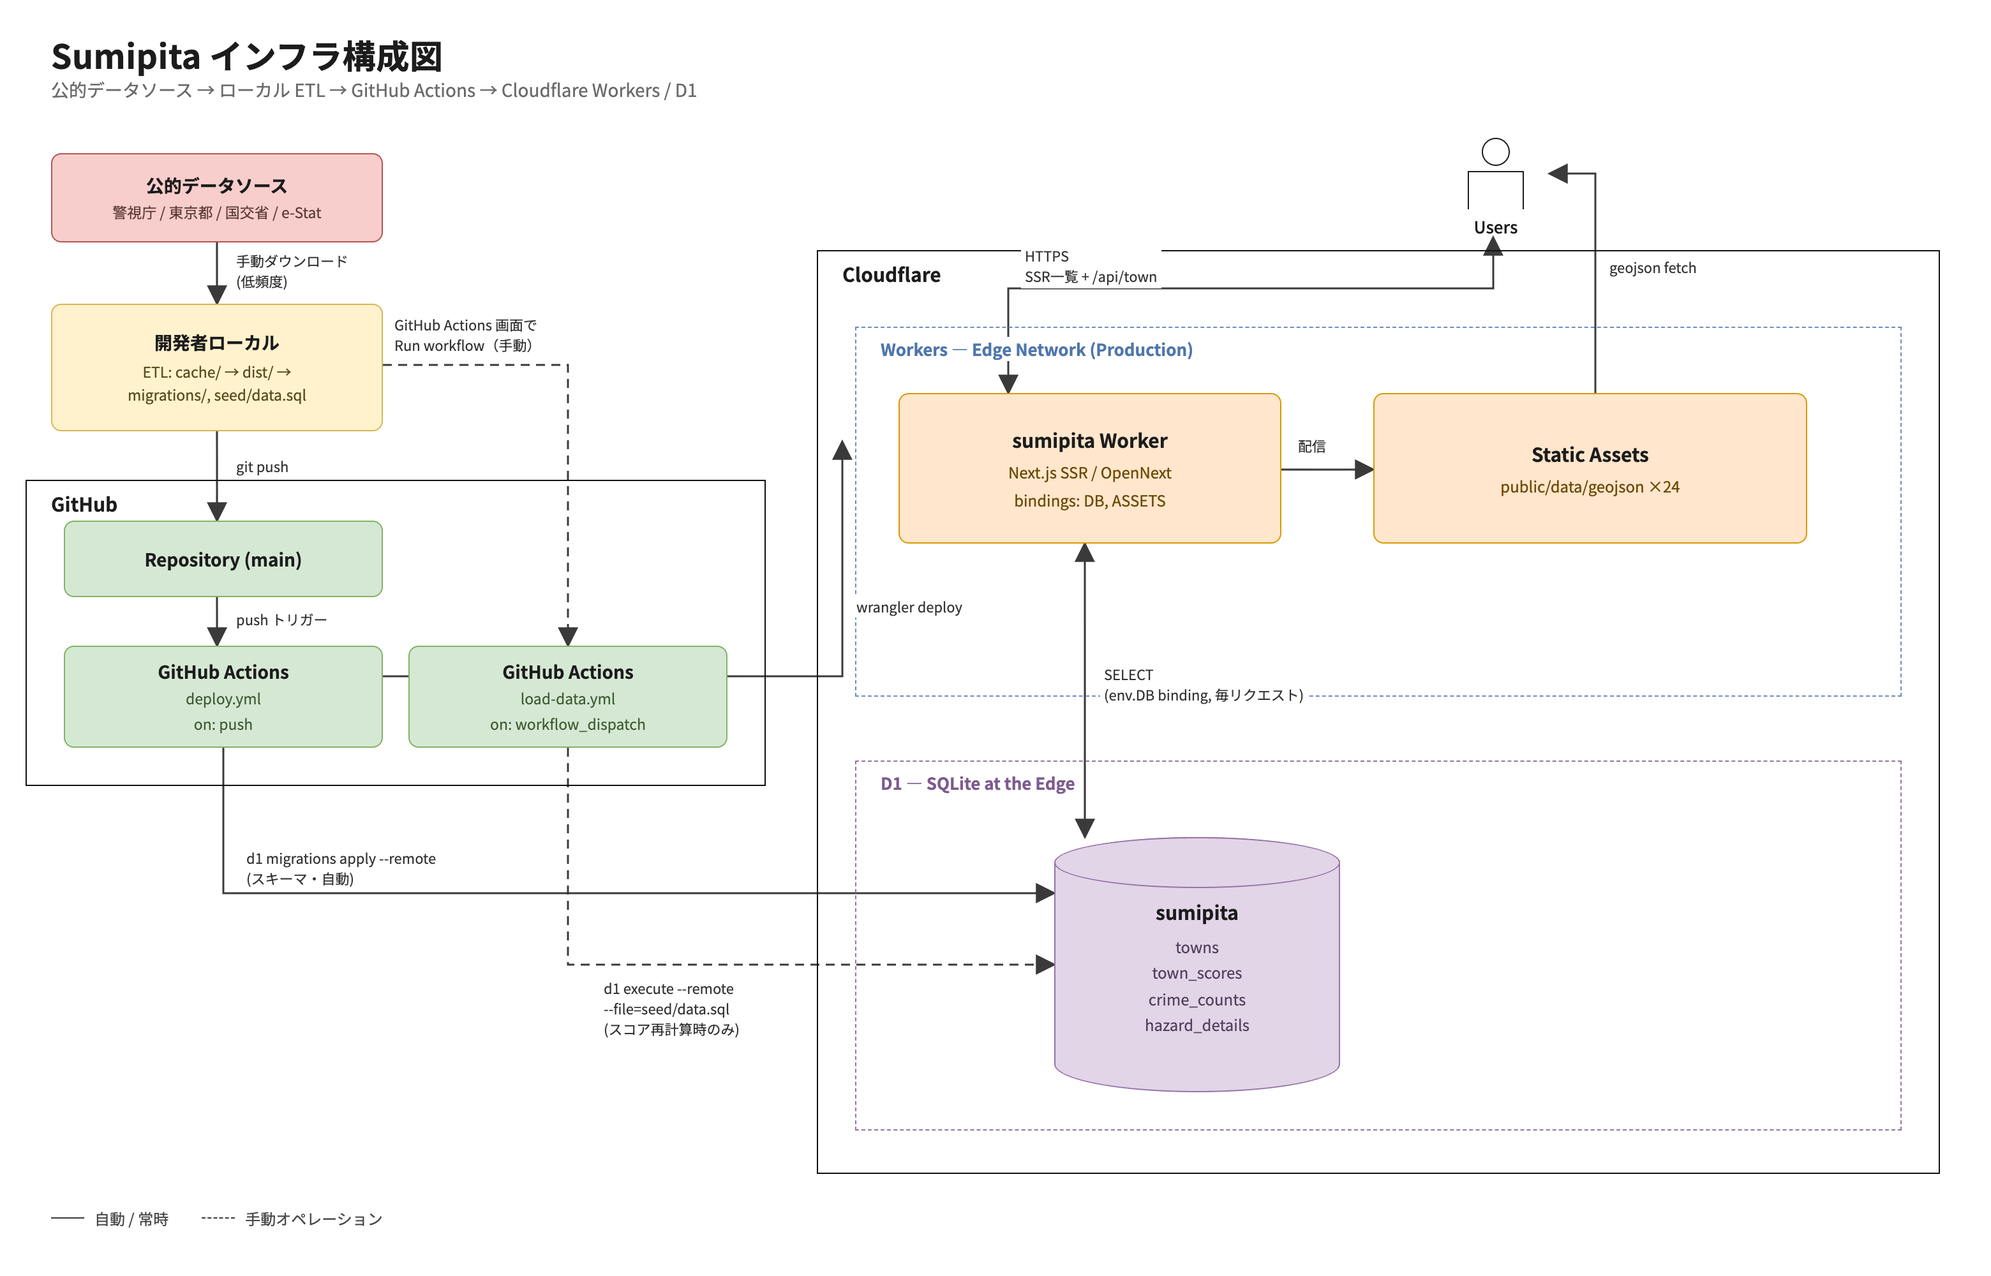
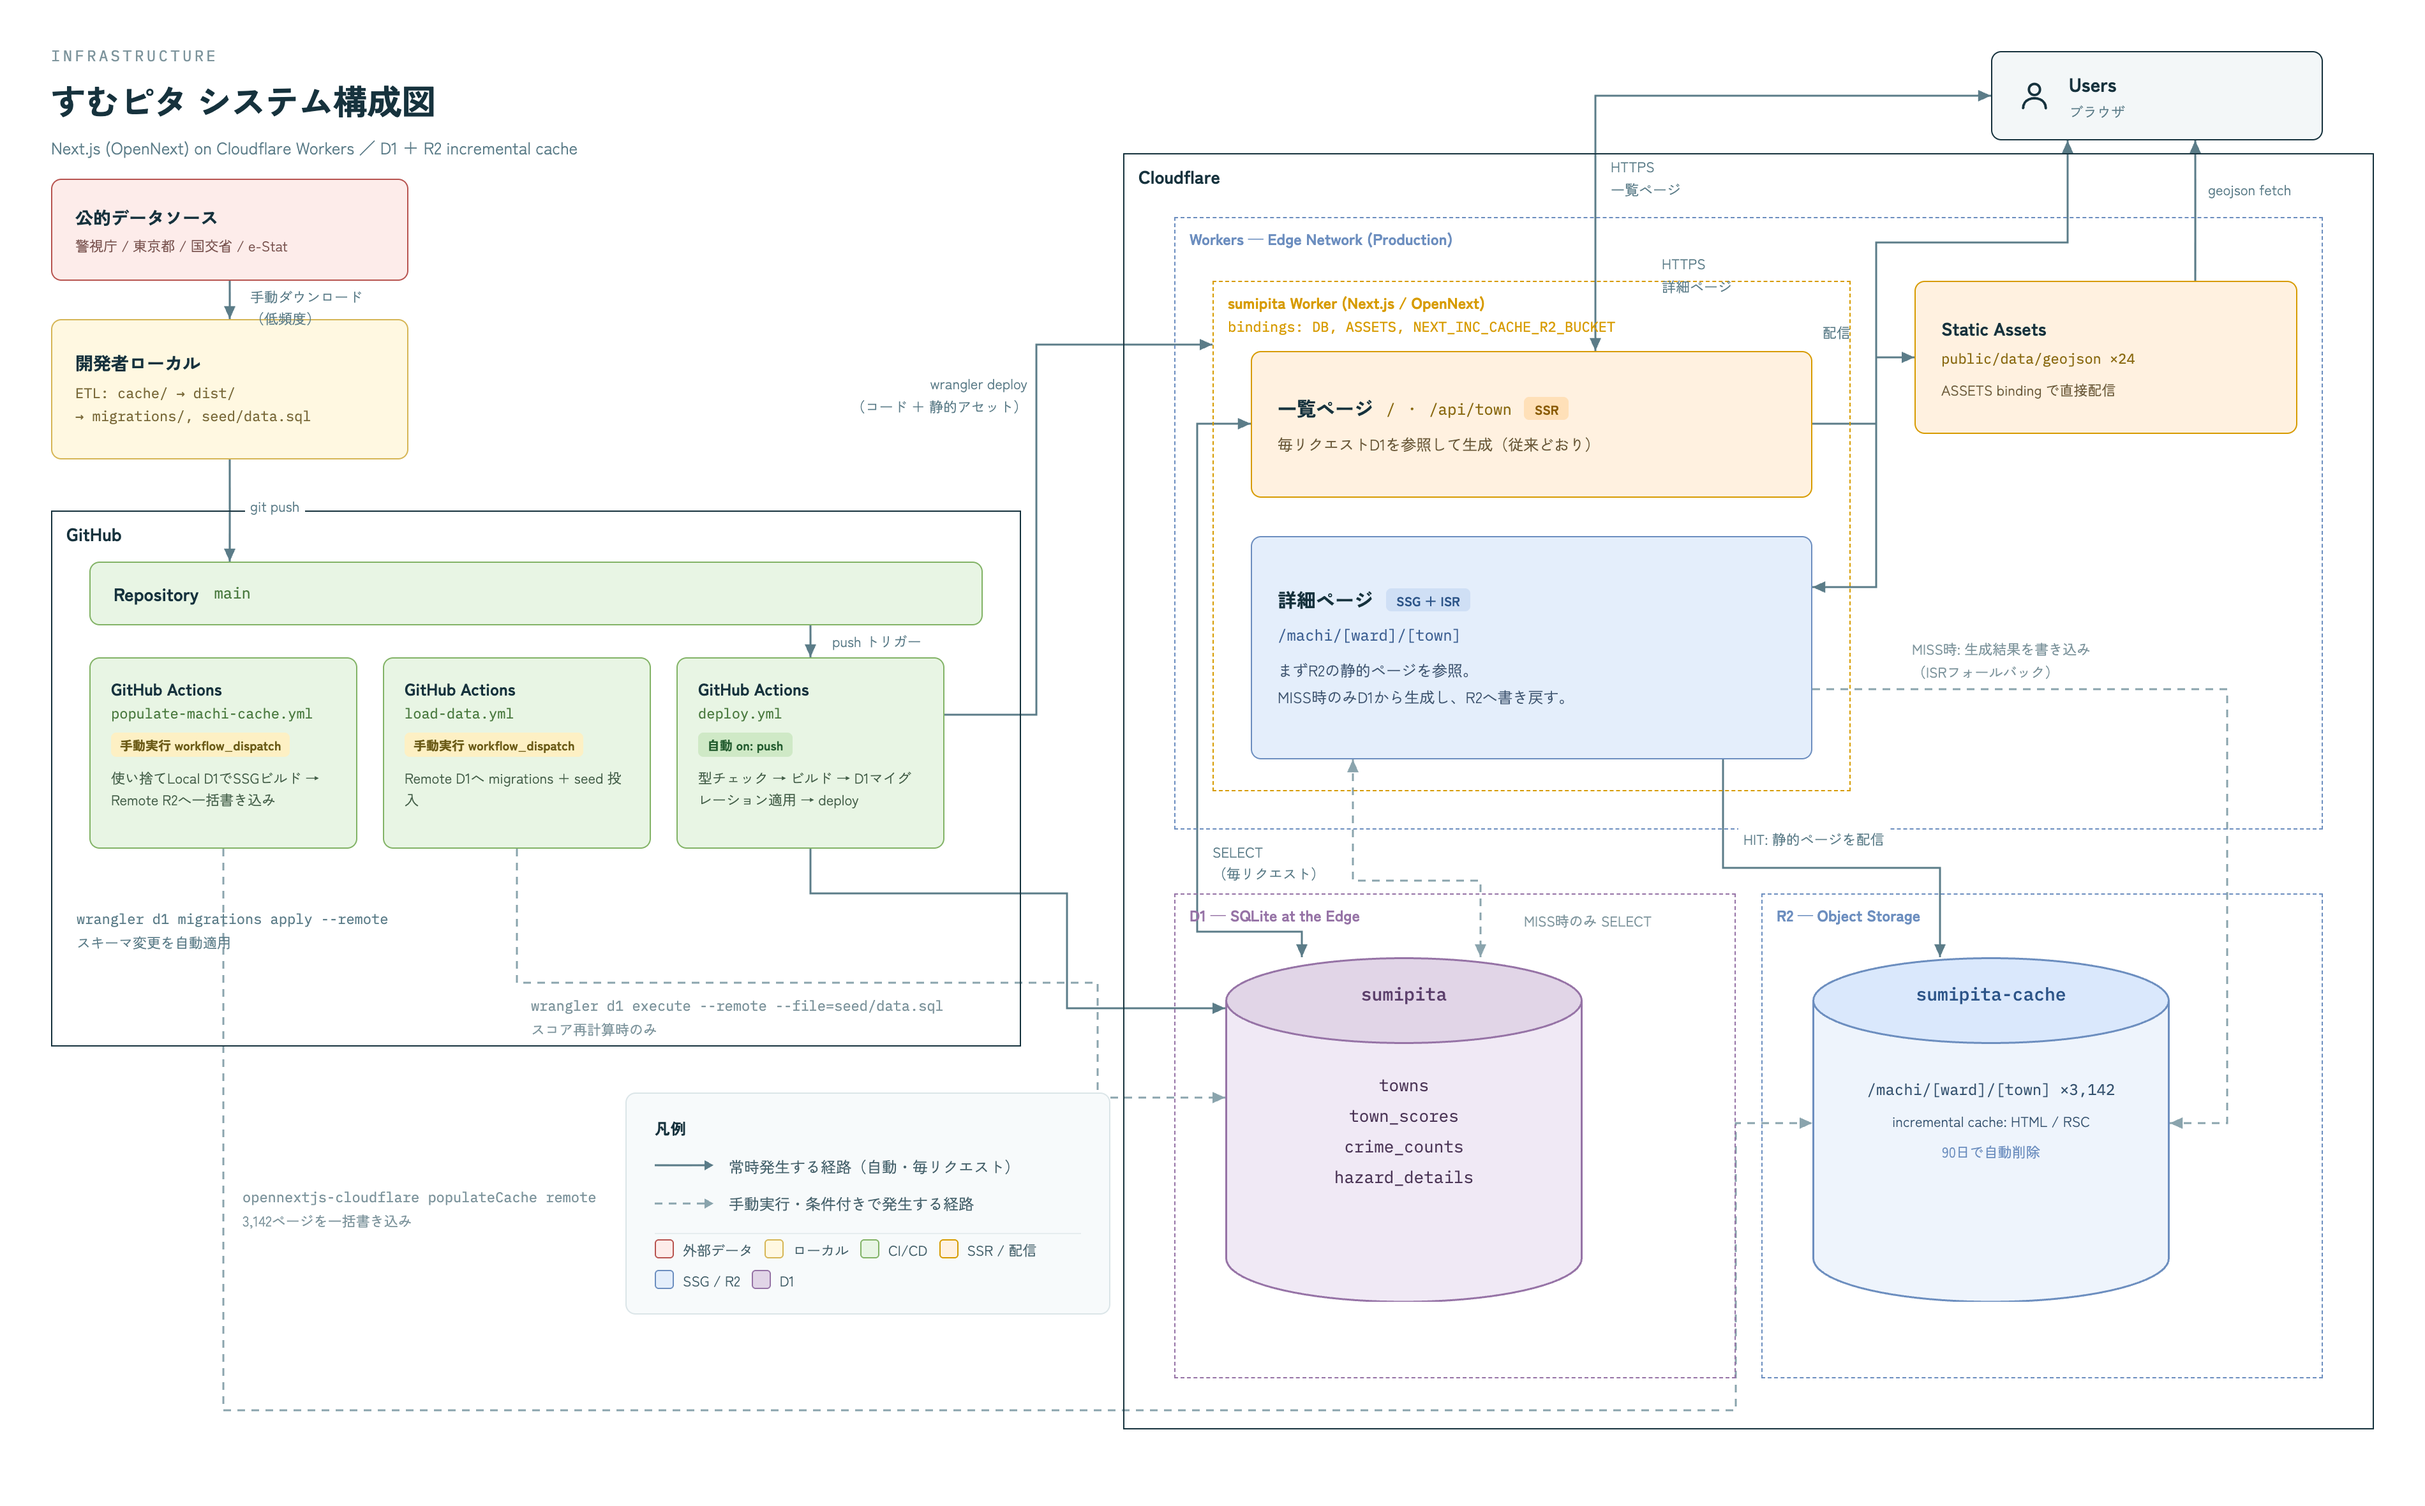
feat:設計書修正して

diff --git a/README.md b/README.md
@@ -2,8 +2,9 @@
 
 東京23区の町丁目ごとに治安・洪水・高潮・地盤（液状化）を可視化する引越し先リサーチダッシュボード。
 
-
 ## 構成
+
+![構成図](docs/sumipita-infra.png)
 
 ```
 etl/        ETLスクリプト一式（生データ → cache/ → dist/ → web/migrations, web/seed）
@@ -11,16 +12,25 @@ cache/      ETL中間・最終成果物（コミット済み）
 web/        webアプリ
 ```
 
-## セットアップ
-
-```bash
-python3 -m venv .venv
-source .venv/bin/activate       # fishなら activate.fish
-python3 -m pip install -r requirements.txt
-```
-
 生データは `data/` に置く。配置ファイル名は
 `etl/paths.py`、取得元URLは `machi-project-plan.md` 参照。`SUMIPITA_DATA` で置き場所を変更可。
+
+### レンダリング
+
+- **一覧ページ** (`/`, `/api/town`): Workers上でSSR。従来通り毎リクエストRemote D1を参照して生成する。
+- **詳細ページ** (`/machi/[ward]/[town]`、3,142ページ): SSG。R2 incremental cache (`sumipita-cache`) の静的HTML/RSCを配信する。キャッシュMISS時のみD1から生成し、そのままR2へ書き込む（ISRフォールバック）。
+
+### Workers / D1 / R2 / CI
+
+- **Workers**: Next.js (OpenNext) 本体。一覧ページのSSRと、詳細ページのR2キャッシュ読み書きを担当。
+- **D1**: `sumipita` DB。一覧ページは毎回、詳細ページはキャッシュMISS時のみ問い合わせる。
+- **R2**: `sumipita-cache` バケット。詳細ページの静的ページを保持（90日で自動削除のライフサイクルルール設定済み）。
+- **CI (GitHub Actions)**:
+  - `deploy.yml` — mainへのpushで自動実行。型チェック→ビルド→D1マイグレーション適用→deploy。詳細ページの再生成はしない（既存R2キャッシュはそのまま）。
+  - `load-data.yml` — 手動実行。スコア再計算などデータ更新時に、Remote D1へmigrations+seedを投入。
+  - `populate-machi-cache.yml` — 手動実行。データ更新後、詳細ページ3,142件を使い捨てLocal D1でSSGビルドし、Remote R2へ一括書き込み。
+
+> R2に置く静的ファイルは`next.config.mjs`の`generateBuildId`でビルドIDを固定してある。固定しないとコードをpushするたびにキャッシュの参照先が変わり、`populate-machi-cache.yml`で作ったキャッシュも読めなくなるため。ビルドIDを変える場合は`populate-machi-cache.yml`を再実行すること。
 
 ## 実行
 
@@ -44,7 +54,7 @@ npm run dev
 
 ## データを更新する
 
-スコア・生データを変えたときだけ。**3ステップとも必要**（片方だけだとページ間でスコアが食い違う。理由は下記）。
+スコア・生データを変えたときだけ。3ステップとも必要（片方だけだとページ間でスコアが食い違う）。
 
 ```bash
 python3 etl/export_d1.py --rebuild
@@ -54,47 +64,15 @@ git commit -m "データ更新"
 git push
 ```
 
-1. **push**: `deploy.yml`が自動で走り、コードをデプロイする（`/machi/[ward]/[town]`は再生成しない）。
-2. **Load D1 Data**: GitHubの**Actions → Load D1 Data → Run workflow**から手動実行し、
-   本番のRemote D1にデータを入れる（`load-data.yml`が`migrations/0001_init.sql`でスキーマを揃えたあと
-   `seed/data.sql`を投入）。トップページ（`/`）と`/api/town`はここを見ている。
-3. **Populate Machi Cache**: GitHubの**Actions → Populate Machi Cache → Run workflow**から手動実行し、
-   `/machi/[ward]/[town]`（3,142ページ）を新しいスコアで作り直してRemote R2キャッシュへ書き込む
-   （`populate-machi-cache.yml`）。
-
-自動投入にしていないのは、DBが一時的に使用不可になるうえ、スコア再計算時以外は流す必要が無いため。
+1. push → `deploy.yml`が自動デプロイ
+2. GitHub Actions → **Load D1 Data** を手動実行 → Remote D1にデータ投入
+3. GitHub Actions → **Populate Machi Cache** を手動実行 → 詳細ページをR2へ再生成
 
 ## デプロイ
 
-Cloudflare Workers に [OpenNext](https://opennext.js.org/cloudflare) で載せる。
-main への push で 型チェック → ビルド → D1マイグレーション適用 → デプロイ が自動で走る（`.github/workflows/deploy.yml`）。
-ここでの「D1マイグレーション適用」は新規セットアップ用で、既存カラムの追加などスキーマ変更は
-反映されない（上記の理由）。スキーマ変更はLoad D1 Dataの手動実行で行う。
+Cloudflare Workers に [OpenNext](https://opennext.js.org/cloudflare) で載せる。mainへのpushで自動デプロイ（`deploy.yml`）。
 
-トップページ（`/`）と`/api/town`はスコア・犯罪件数・ハザード値を**Remote D1から毎リクエストSSRで参照**する。
-`/machi/[ward]/[town]`（町丁目詳細ページ）はR2（`open-next.config.ts`のincrementalCache、`wrangler.jsonc`の
-`NEXT_INC_CACHE_R2_BUCKET`）をキャッシュとして使う。ただし**通常の`deploy.yml`ではこのキャッシュを作らない**
-（`generateStaticParams`は`POPULATE_MACHI_CACHE=1`が付いているときだけ全件を返し、通常ビルドでは空リスト。
-コードのpushのたびにD1へ3,142回問い合わせるのを避けるため）。空リストでも`dynamicParams: true`なので、
-アクセス時にD1から生成してそのままR2へ積まれる（本来のISRのフォールバック動作）。データ更新時に
-まとめて生成しておきたい場合は`populate-machi-cache.yml`を手動実行する。地図のポリゴンは静的アセット。
-
-（一度R2/KVの設定を忘れてSSG化し、本番で全ページ404にした。デプロイ後は
-`curl -I` で `x-nextjs-cache: HIT` になっているか必ず確認すること。）
-
-**ビルドIDを固定してある**（`next.config.mjs`の`generateBuildId`）。R2キャッシュのキーにビルドIDが
-入るため、固定しないと通常のコードデプロイのたびに参照先が変わり、それまでのキャッシュが
-（`populate-machi-cache.yml`で作ったものも含めて）読めなくなる。変更する場合は
-`populate-machi-cache.yml`を再実行すること。
-
-**それでもR2キャッシュはpopulate/フォールバック生成のたびに増える**（同じビルドID内では基本的に
-同じキーに上書きされるはずだが、ビルドIDを変えたときや検証時は積み上がる）。無限に溜まらないよう
-`sumipita-cache`バケットに90日で自動削除のライフサイクルルールを設定済み
-（`wrangler r2 bucket lifecycle add sumipita-cache expire-old-cache --expire-days 90`。
-コードには残らない設定なので、バケットを作り直した場合はこのコマンドを再実行すること）。
-
-`populate-machi-cache.yml`のRemote R2書き込みには、`CLOUDFLARE_API_TOKEN`にR2の編集権限が必要
-（無いと`403 Authentication error`で失敗する。実際に一度これで失敗している）。
+（一度R2の設定を忘れてSSG化し、本番で全ページ404にしたことがある。デプロイ後は
+`curl -I` で `x-nextjs-cache: HIT` になっているか確認すること。）
 
 ローカルで本番相当を見る: `cd web && npm run preview`
-
